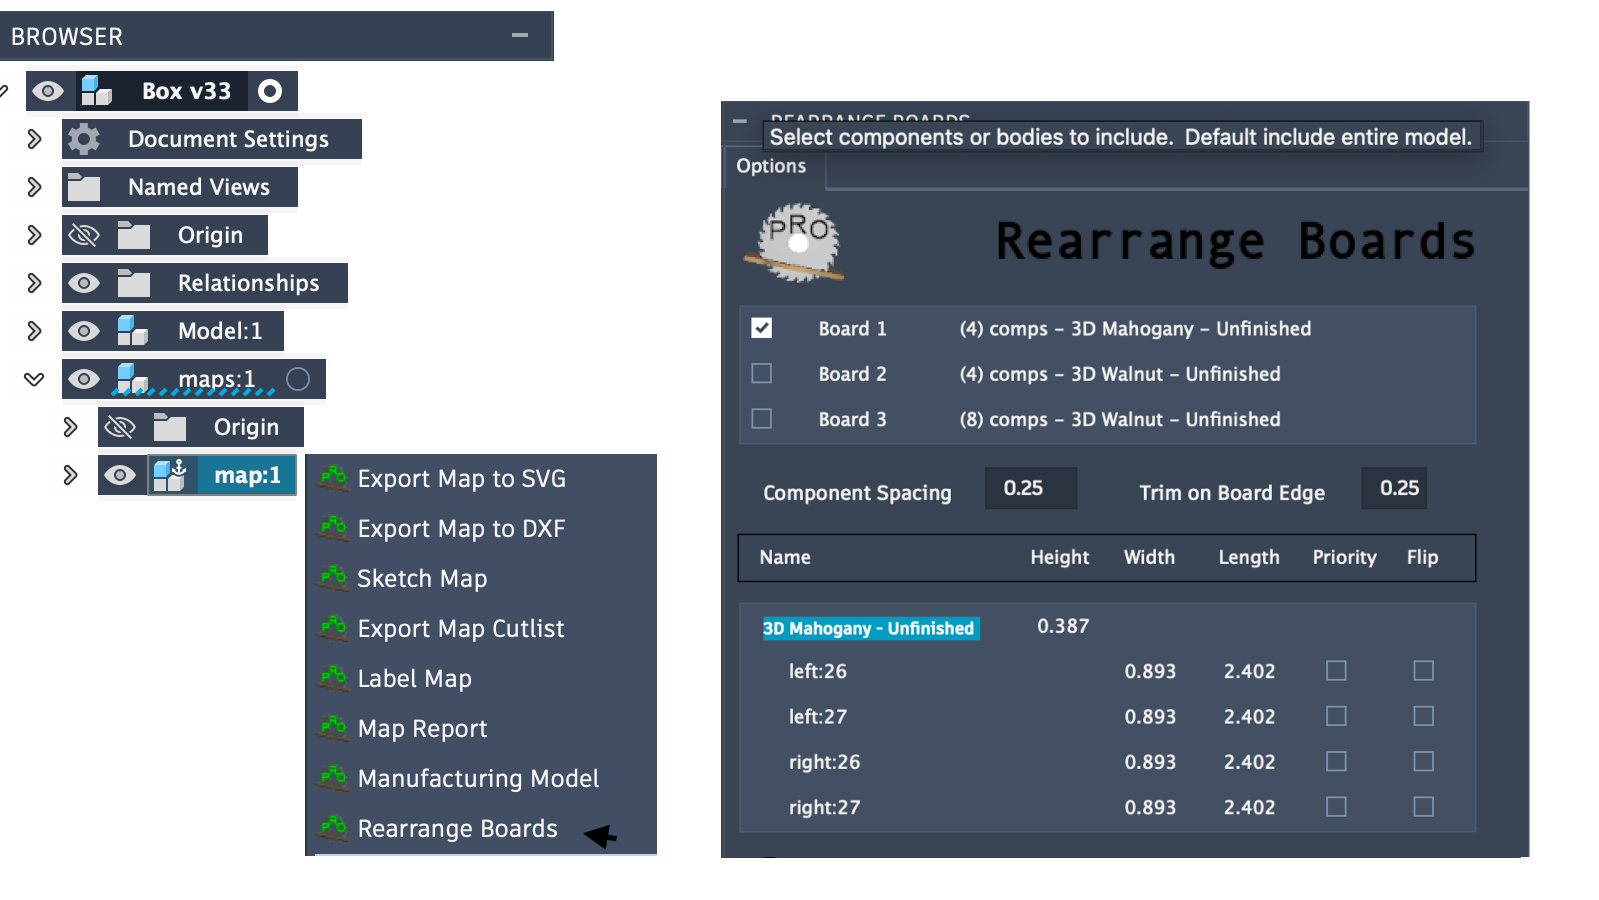
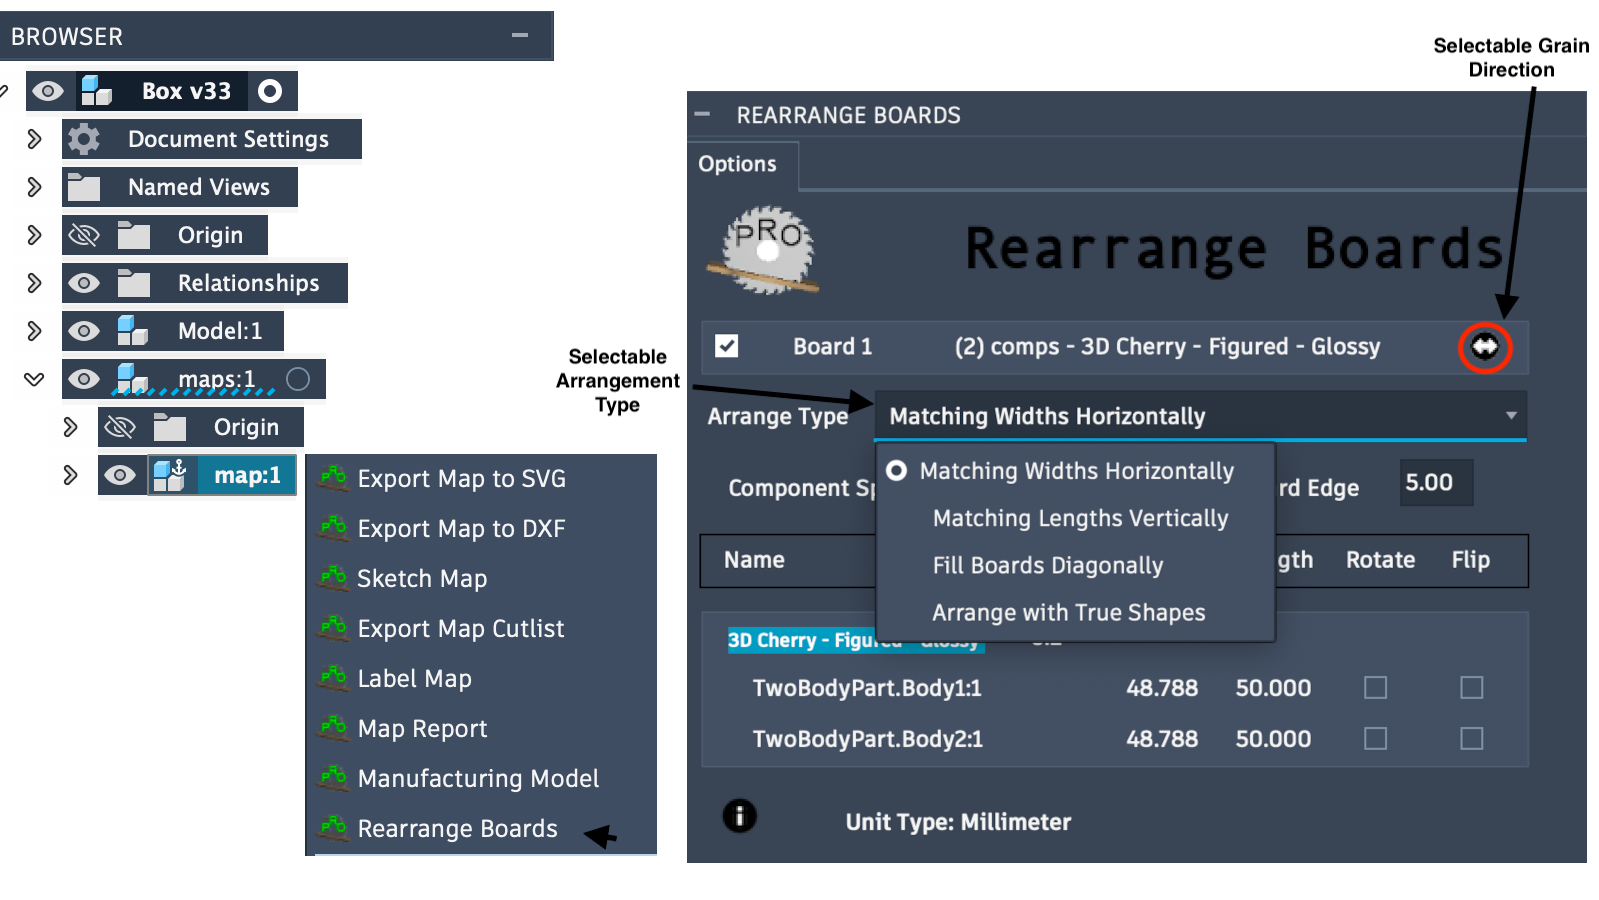
update

Changed region(s): [[0.3371, 0.0311, 1.0, 0.9644]]

diff --git a/source/post-mapping/tasks/rearrange_boards.rst b/source/post-mapping/tasks/rearrange_boards.rst
@@ -5,12 +5,27 @@ Rearrange Boards (Plus version only)
 ************************************
 
 The post-mapping task  **Rearrange Boards** provides a convenient way to
-rearrange components for the selected mapped board. It uses Fusion 360's native arrange
-functionality to perform true nesting of components on a board providing full rotation
-and part-in-part for the best possible material utilization.  
+rearrange components for the selected mapped board. 
 
-It will present a list of components on the board with options to prioritize the order,
-helping with part-in-part placement, and a flip option to control which face faces up.
+With a board selected, it will present a list of components on the board with a number of options
+to override the settings used to create the mapped board selected.  These include:
+
+- Board grain orientation (horizontal or vertical)
+- Four possible arrangement types:
+    - Matching Width Horizontally
+    - Matching Lengths Vertically
+    - Fill Boards Diagonally
+    - True Shapes (Fusion 360 native nesting)
+- Component Spacing
+- Trim on Board Edge
+- For each component, **Rotate** (90 degrees) and **Flip** top face from default
+
+Once rearrange is run the options used to create the new mapped board are persisted.  Relaunching rearrange
+on the same board will show the updated settings used.
+
+Note: For Fusion's True Shapes arrangement both Board Grain Orientation and Rotate do not apply and are
+ignored.  True Shapes provides full rotation and part-in-part placement for the best possible material
+utilization.
 
 
 .. image:: /_static/images/rearrange_boards.png
